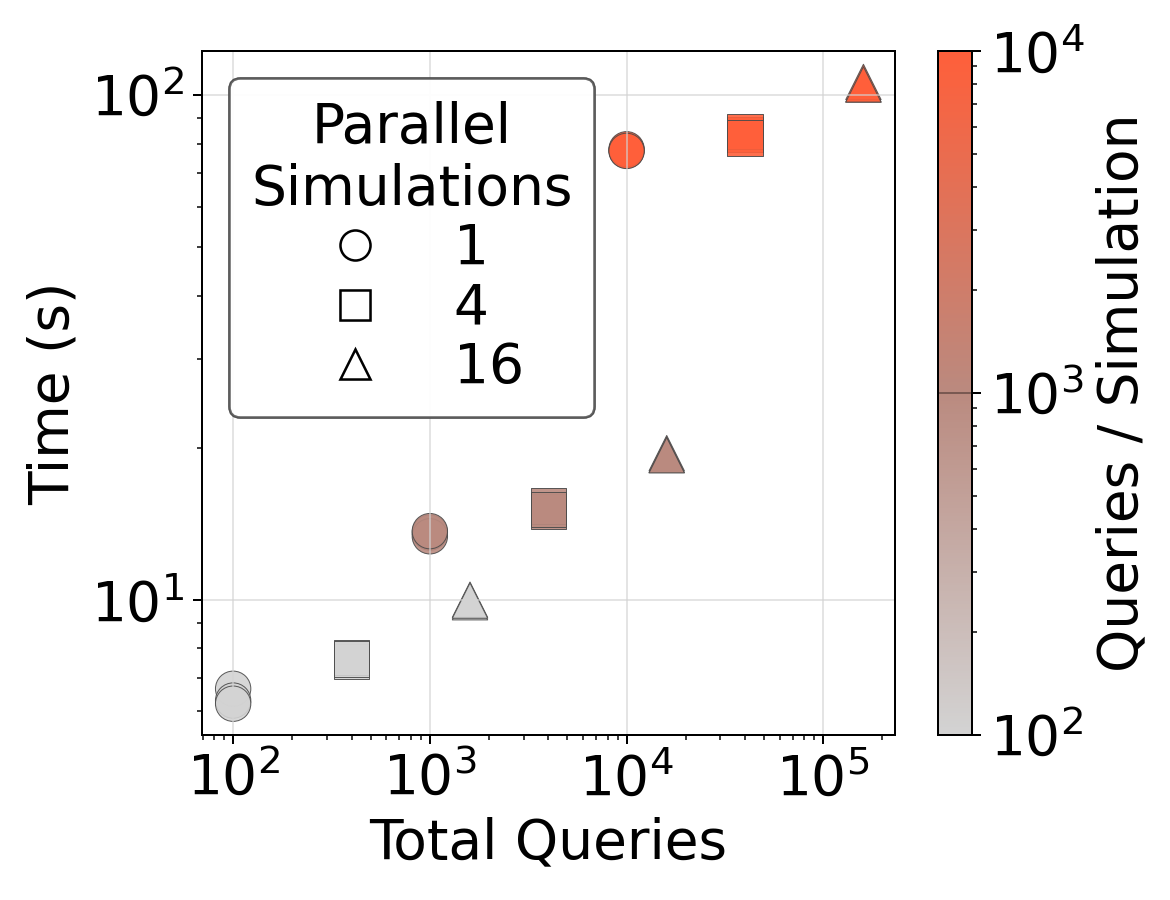
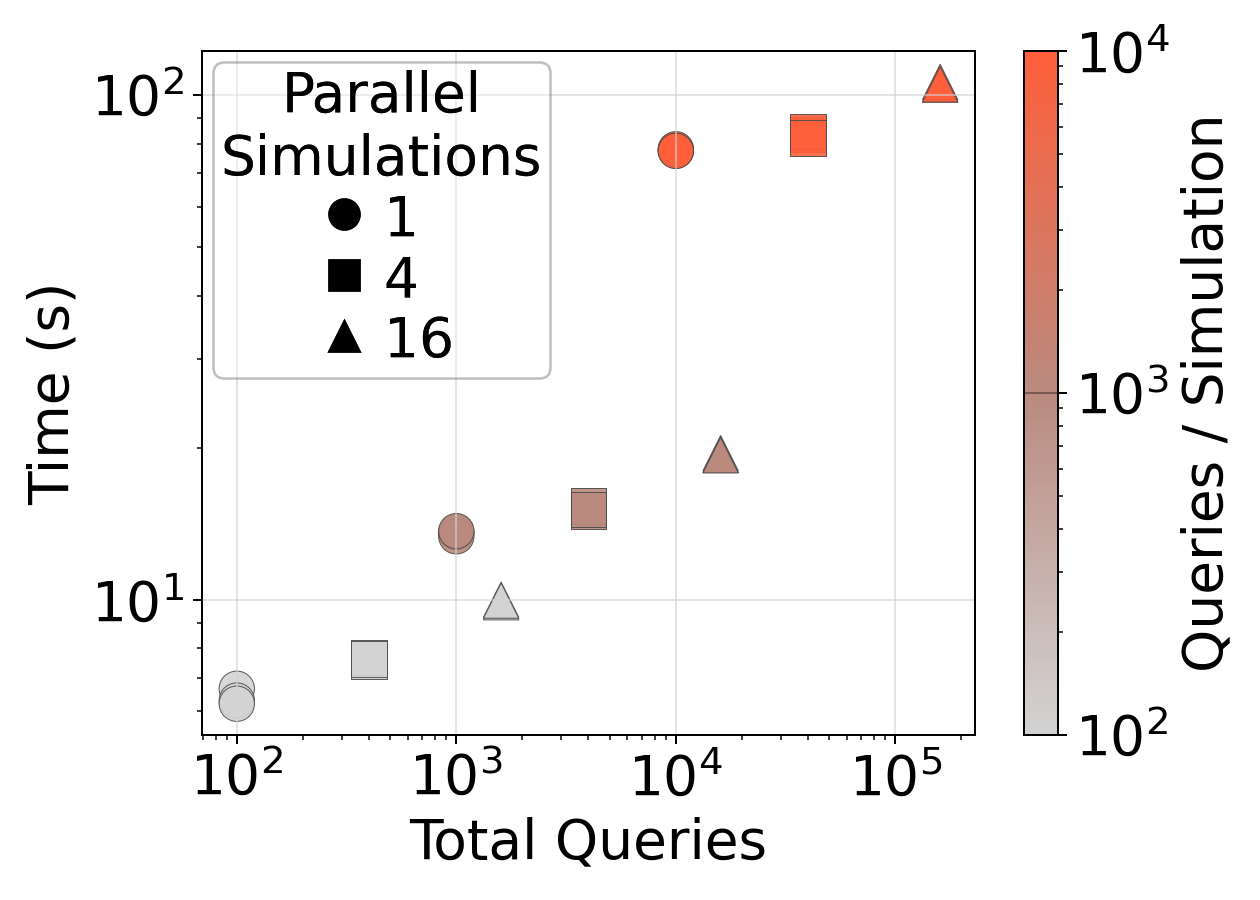
Update autoscaling efficiency experiment

diff --git a/src/autoslo/microbenchmarks/autoscaling_efficiency.py b/src/autoslo/microbenchmarks/autoscaling_efficiency.py
@@ -1,7 +1,7 @@
 from __future__ import annotations
 
-import itertools
 import time
+from dataclasses import replace
 
 import pandas as pd
 
@@ -62,7 +62,7 @@ class AutoscalingEfficiencyBenchmark(MicrobenchmarkRunner):
         slo_resolver = SloResolver(SloResolverConfig.from_config(manifest))
         slo_objective = SloObjective(SloObjectiveConfig.from_config(manifest))
         query_router_config = QueryRouterConfig.from_config(manifest)
-        autoscaler_config = AutoscalerConfig.from_config(manifest)
+        base_autoscaler_config = AutoscalerConfig.from_config(manifest)
         router = QueryRouter(
             slo_resolver=slo_resolver,
             slo_objective=slo_objective,
@@ -74,14 +74,6 @@ class AutoscalingEfficiencyBenchmark(MicrobenchmarkRunner):
             **cls.DEFAULT_PROVISIONER_CONFIG_ARGS
             | {"cluster_cache_state_dim": cache_state_dim},
         )
-        autoscaler = Autoscaler(
-            slo_resolver=slo_resolver,
-            slo_objective=slo_objective,
-            provisioner_config=provisioner_config,
-            query_router_config=query_router_config,
-            autoscaler_config=autoscaler_config,
-            out_dir=cls.scratch_dir(),
-        )
 
         # Run.
         rows: list[dict[str, float | int]] = []
@@ -92,9 +84,10 @@ class AutoscalingEfficiencyBenchmark(MicrobenchmarkRunner):
             for arrival_rate_qps in arrival_rates:
 
                 # Set up workload with the given arrival rate.
-                total_queries_needed = (
-                    arrival_rate_qps * autoscaler_config.observation_window_s
-                )
+                total_queries_needed = 2 * int(
+                    arrival_rate_qps
+                    * base_autoscaler_config.observation_window_s
+                )  # Multiply by 2 as a safety buffer.
                 workload = PoissonWorkloadCreator.create_poisson_workload_with_n_queries(
                     num_templates=99,
                     num_query_texts_per_template=1,
@@ -111,51 +104,60 @@ class AutoscalingEfficiencyBenchmark(MicrobenchmarkRunner):
                 for query in workload.queries():
                     if (
                         query.rel_start_time_s
-                        < autoscaler_config.observation_window_s
+                        < base_autoscaler_config.observation_window_s
                     ):
                         idx_of_first_non_ingested_query += 1
                     else:
                         break
-                autoscaler._trailing_queries = []
-                snapshot = cls.ingest_initial(
-                    workload=workload,
-                    n_to_ingest=idx_of_first_non_ingested_query,
-                    initial_cluster_sizes=manifest["initial_rpus"],
-                    query_router=router,
-                    autoscaler=autoscaler,
-                )
                 next_time_s = workload.queries()[
                     idx_of_first_non_ingested_query
                 ].rel_start_time_s
 
-                for candidate_rpu, rep in itertools.product(
-                    candidate_rpu_values, range(reps)
-                ):
+                for last_candidate_rpu_idx in range(len(candidate_rpu_values)):
+                    candidate_rpu = candidate_rpu_values[
+                        :last_candidate_rpu_idx + 1
+                    ]
+                    autoscaler_config = replace(
+                        base_autoscaler_config,
+                        allowed_rpu_sizes=candidate_rpu,
+                    )
+                    autoscaler = Autoscaler(
+                        slo_resolver=slo_resolver,
+                        slo_objective=slo_objective,
+                        provisioner_config=provisioner_config,
+                        query_router_config=query_router_config,
+                        autoscaler_config=autoscaler_config,
+                        out_dir=cls.scratch_dir(),
+                    )
+                    snapshot = cls.ingest_initial(
+                        workload=workload,
+                        n_to_ingest=idx_of_first_non_ingested_query,
+                        initial_cluster_sizes=manifest["initial_rpus"],
+                        query_router=router,
+                        autoscaler=autoscaler,
+                    )
 
-                    t0 = time.perf_counter()
-                    violation_cost, replay_stats = (
-                        autoscaler._counterfactual_replay(
-                            candidate_rpu=candidate_rpu,
+                    for rep in range(reps):
+                        t0 = time.perf_counter()
+                        _, stats = autoscaler._select_rpu(
                             rel_time_s=next_time_s,
                             pool_snapshot_with_current_query=snapshot,
                         )
-                    )
-                    elapsed_s = time.perf_counter() - t0
-                    rows.append(
-                        {
-                            "candidate_rpu": candidate_rpu,
-                            "arrival_rate_qps": arrival_rate_qps,
-                            "simulated_queries": replay_stats.simulated_queries,
-                            "replay_copies": replay_stats.replay_copies,
-                            "finished_after_ready": replay_stats.finished_after_ready,
-                            "organic_done": int(replay_stats.organic_done),
-                            "violation": violation_cost.violation,
-                            "cost": violation_cost.cost,
-                            "rep": rep,
-                            "elapsed_s": elapsed_s,
-                        }
-                    )
-                    progress.update(task, advance=1)
+                        elapsed_s = time.perf_counter() - t0
+                        total_simulated_queries = (
+                            stats.pre_spinup_arrivals_processed
+                            + sum(stats.post_spinup_arrivals_processed.values())
+                        )
+                        rows.append(
+                            {
+                                "candidate_rpu": f"[{','.join(map(str, sorted(candidate_rpu)))}]",
+                                "arrival_rate_qps": arrival_rate_qps,
+                                "simulated_queries": total_simulated_queries,
+                                "rep": rep,
+                                "elapsed_s": elapsed_s,
+                            }
+                        )
+                        progress.update(task, advance=1)
 
         df = pd.DataFrame(rows)
         df.to_csv(cls.csv_path(), index=False)
@@ -167,7 +169,7 @@ class AutoscalingEfficiencyBenchmark(MicrobenchmarkRunner):
             y_col="elapsed_s",
             shape_col="candidate_rpu",
             color_col="arrival_rate_qps",
-            shape_legend_title="RPU",
+            shape_legend_title="Candidate RPU",
             colorbar_label="Arrival Rate (Queries/s)",
             cmap_colors=[
                 Palette.light_gray,

diff --git a/src/autoslo/microbenchmarks/microbenchmark_runner.py b/src/autoslo/microbenchmarks/microbenchmark_runner.py
@@ -94,7 +94,7 @@ class MicrobenchmarkRunner:
     TPCDS_99_TEMPLATE_SOURCE_WORKLOAD = "poisson_99_1_3_0.2_42"
     TPCDS_TEMPLATE_QUERY_INDEX = "001"
     TPCDS_TEMPLATE_COUNT = 99
-    SCATTER_FIGSIZE = (6.5, 5)
+    SCATTER_FIGSIZE = (7, 5)
     SCATTER_DPI = 180
     SCATTER_MARKER_SIZE = 200
     SCATTER_POINT_ALPHA = 0.9
@@ -114,6 +114,12 @@ class MicrobenchmarkRunner:
     SCATTER_COLORBAR_LABEL_FONT_SIZE = BASE_FONT_SIZE
     SCATTER_COLORBAR_TICK_FONT_SIZE = BASE_FONT_SIZE
     LEGEND_LABEL_SPACING = 0.1
+    LEGEND_BORDER_PAD = 0.15 # padding between legend content and legend frame
+    LEGEND_HANDLE_TEXT_PAD = 0.1 # space between legend marker and text
+    LEGEND_BORDER_AXES_PAD = 0.2 # space between legend and axes edge
+    LEGNED_HANDLE_LENGTH = 1.25
+    LEGEND_HANDLE_HEIGHT = 1.0
+    LEGEND_FRAME_ALPHA = 0.2
 
     DEFAULT_PROVISIONER_CONFIG_ARGS = {
         "aws_config_path": "",
@@ -271,7 +277,7 @@ class MicrobenchmarkRunner:
         ax.set_facecolor(Palette.white)
 
         markers = ["o", "s", "^", "D", "P", "X", "v", "<", ">"]
-        shape_values = sorted(df[shape_col].unique().tolist())
+        shape_values = df[shape_col].unique().tolist()
         color_values = df[color_col].astype(float)
         cmap_name = f"{cls.name()}_cmap"
         cmap = LinearSegmentedColormap.from_list(cmap_name, cmap_colors)
@@ -306,7 +312,7 @@ class MicrobenchmarkRunner:
                 [0],
                 marker=markers[idx % len(markers)],
                 color="none",
-                markerfacecolor=Palette.white,
+                markerfacecolor=Palette.black,
                 markeredgecolor=Palette.black,
                 markeredgewidth=cls.SCATTER_LEGEND_MARKER_EDGE_WIDTH,
                 markersize=cls.SCATTER_LEGEND_MARKER_SIZE,
@@ -314,6 +320,7 @@ class MicrobenchmarkRunner:
             )
             for idx, shape_value in enumerate(shape_values)
         ]
+        
         shape_legend = ax.legend(
             handles=shape_handles,
             title=shape_legend_title,
@@ -323,6 +330,12 @@ class MicrobenchmarkRunner:
             title_fontsize=cls.SCATTER_LEGEND_TITLE_FONT_SIZE,
             fontsize=cls.SCATTER_LEGEND_TEXT_FONT_SIZE,
             labelspacing=cls.LEGEND_LABEL_SPACING,
+            borderpad=cls.LEGEND_BORDER_PAD,      
+            handletextpad=cls.LEGEND_HANDLE_TEXT_PAD,
+            borderaxespad=cls.LEGEND_BORDER_AXES_PAD,
+            handlelength=cls.LEGNED_HANDLE_LENGTH,
+            handleheight=cls.LEGEND_HANDLE_HEIGHT,
+            framealpha=cls.LEGEND_FRAME_ALPHA,
         )
         shape_legend.get_title().set_color(Palette.black)
         shape_legend.get_title().set_ha("center")
